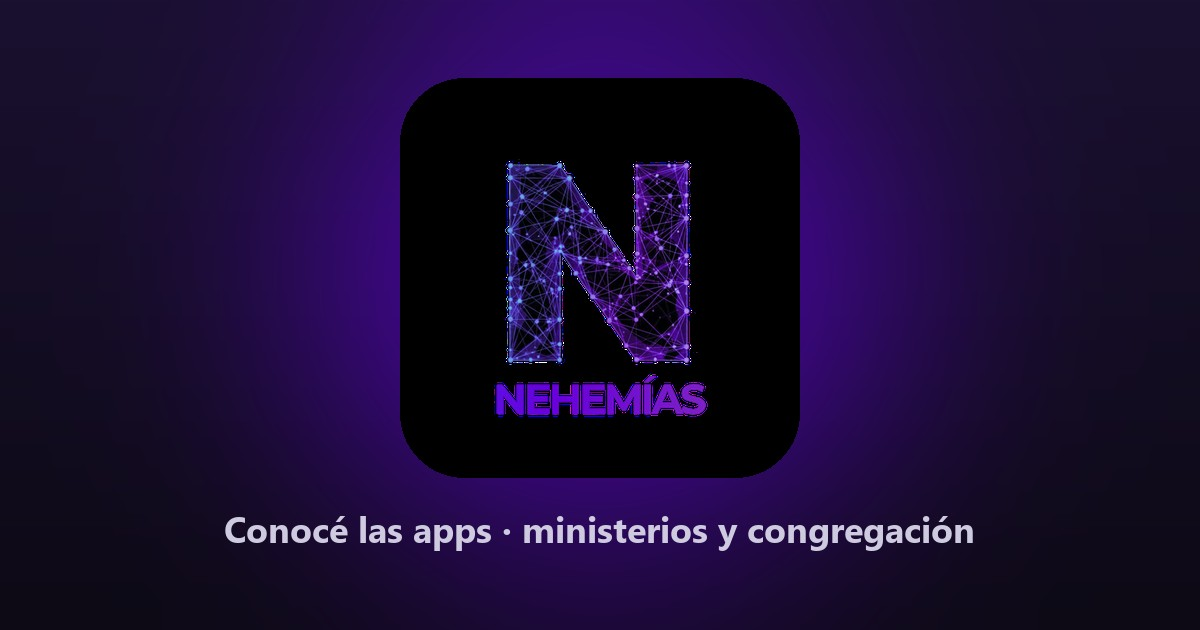
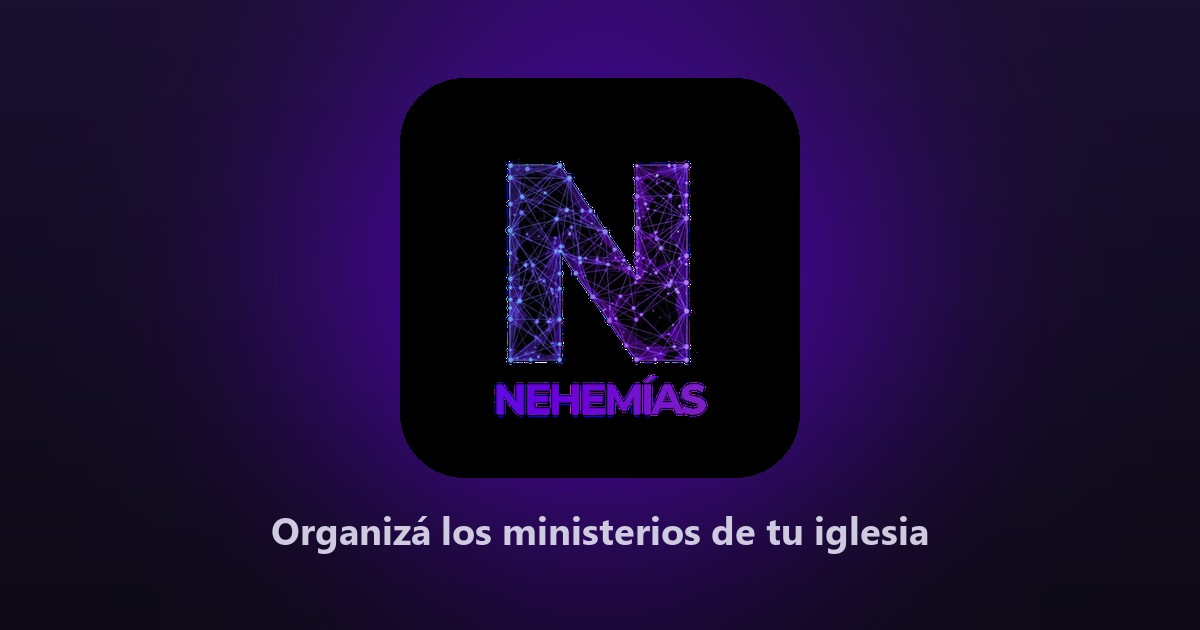
Guia: preview enfocada en el Planificador (por ahora la unica app publicada); Comunidad 'muy pronto'

Changed region(s): [[0.185, 0.8143, 0.8017, 0.8746]]

diff --git a/guia.html b/guia.html
@@ -3,22 +3,22 @@
 <head>
 <meta charset="UTF-8" />
 <meta name="viewport" content="width=device-width, initial-scale=1.0" />
-<title>Nehemías · Conocé las apps</title>
-<meta name="description" content="Nehemías: dos apps para tu iglesia. Mirá por dentro el Planificador, Comunidad y cómo se ingresa." />
+<title>Nehemías · Planificador de ministerios</title>
+<meta name="description" content="Nehemías Planificador: organizá los cultos, las tareas y los equipos de servicio de tu iglesia." />
 
 <!-- Vista previa al compartir el link (WhatsApp, Facebook, etc.) -->
 <meta property="og:type" content="website" />
 <meta property="og:site_name" content="Nehemías" />
-<meta property="og:title" content="Nehemías · Conocé las apps" />
-<meta property="og:description" content="Dos apps para tu iglesia: gestión de ministerios y de toda la congregación. Mirá cómo funcionan." />
+<meta property="og:title" content="Nehemías · Planificador de ministerios" />
+<meta property="og:description" content="La app para organizar los cultos, las tareas y los equipos de servicio de tu iglesia. (Comunidad, muy pronto)" />
 <meta property="og:url" content="https://pisciotta545.github.io/nehemias-maqueta/guia.html" />
-<meta property="og:image" content="https://pisciotta545.github.io/nehemias-maqueta/og_nehemias.jpg" />
+<meta property="og:image" content="https://pisciotta545.github.io/nehemias-maqueta/og_nehemias.jpg?v=2" />
 <meta property="og:image:width" content="1200" />
 <meta property="og:image:height" content="630" />
 <meta name="twitter:card" content="summary_large_image" />
-<meta name="twitter:title" content="Nehemías · Conocé las apps" />
-<meta name="twitter:description" content="Dos apps para tu iglesia: gestión de ministerios y de toda la congregación." />
-<meta name="twitter:image" content="https://pisciotta545.github.io/nehemias-maqueta/og_nehemias.jpg" />
+<meta name="twitter:title" content="Nehemías · Planificador de ministerios" />
+<meta name="twitter:description" content="La app para organizar los cultos, las tareas y los equipos de servicio de tu iglesia." />
+<meta name="twitter:image" content="https://pisciotta545.github.io/nehemias-maqueta/og_nehemias.jpg?v=2" />
 <style>
   :root{
     --fondo:#0D0A15; --morado:#7000FF; --morado2:#9d4dff; --cian:#4DD0E1;
